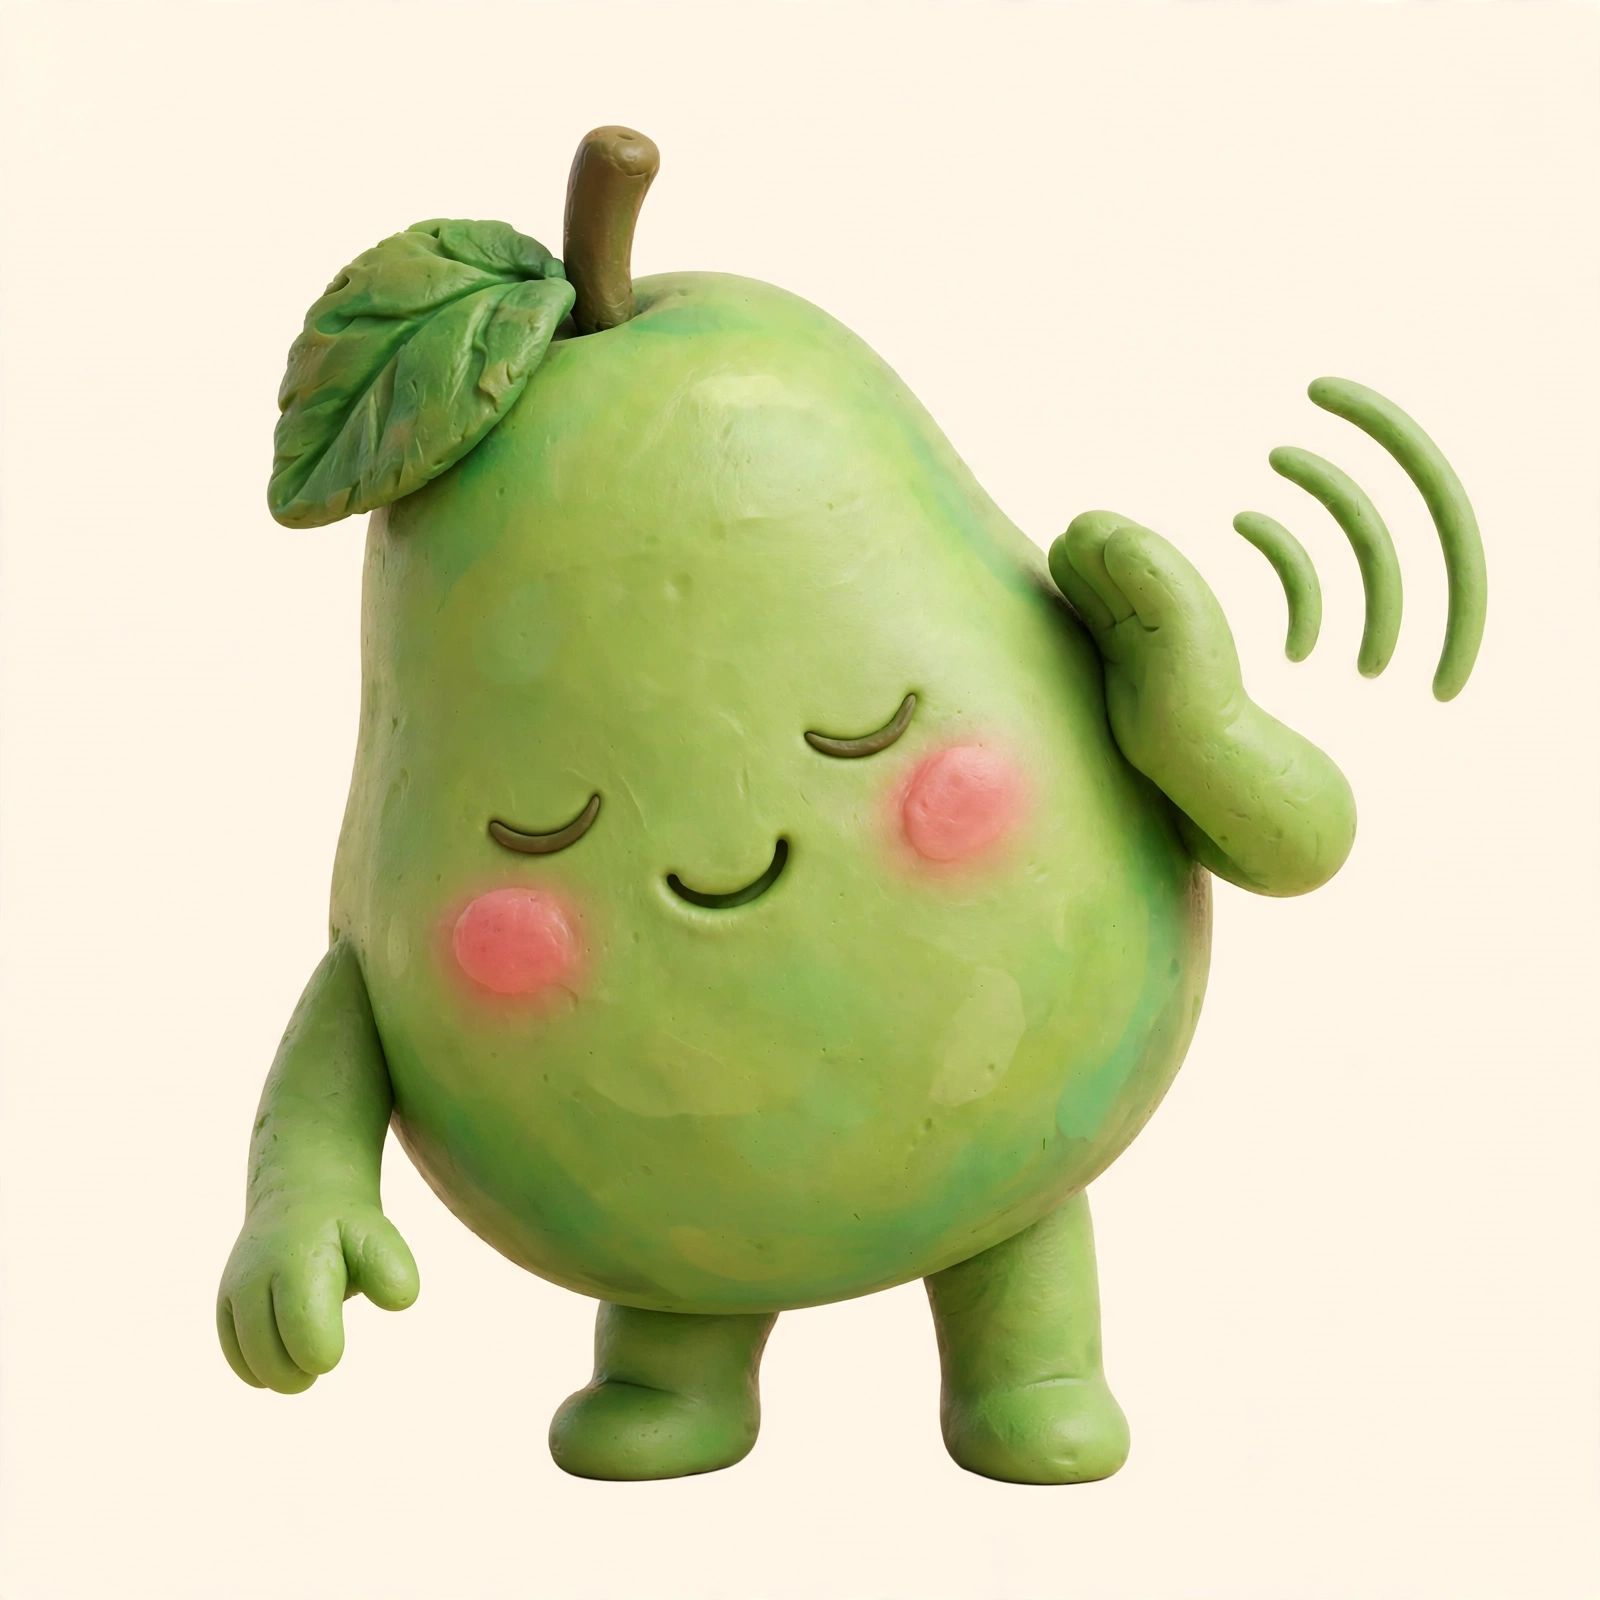
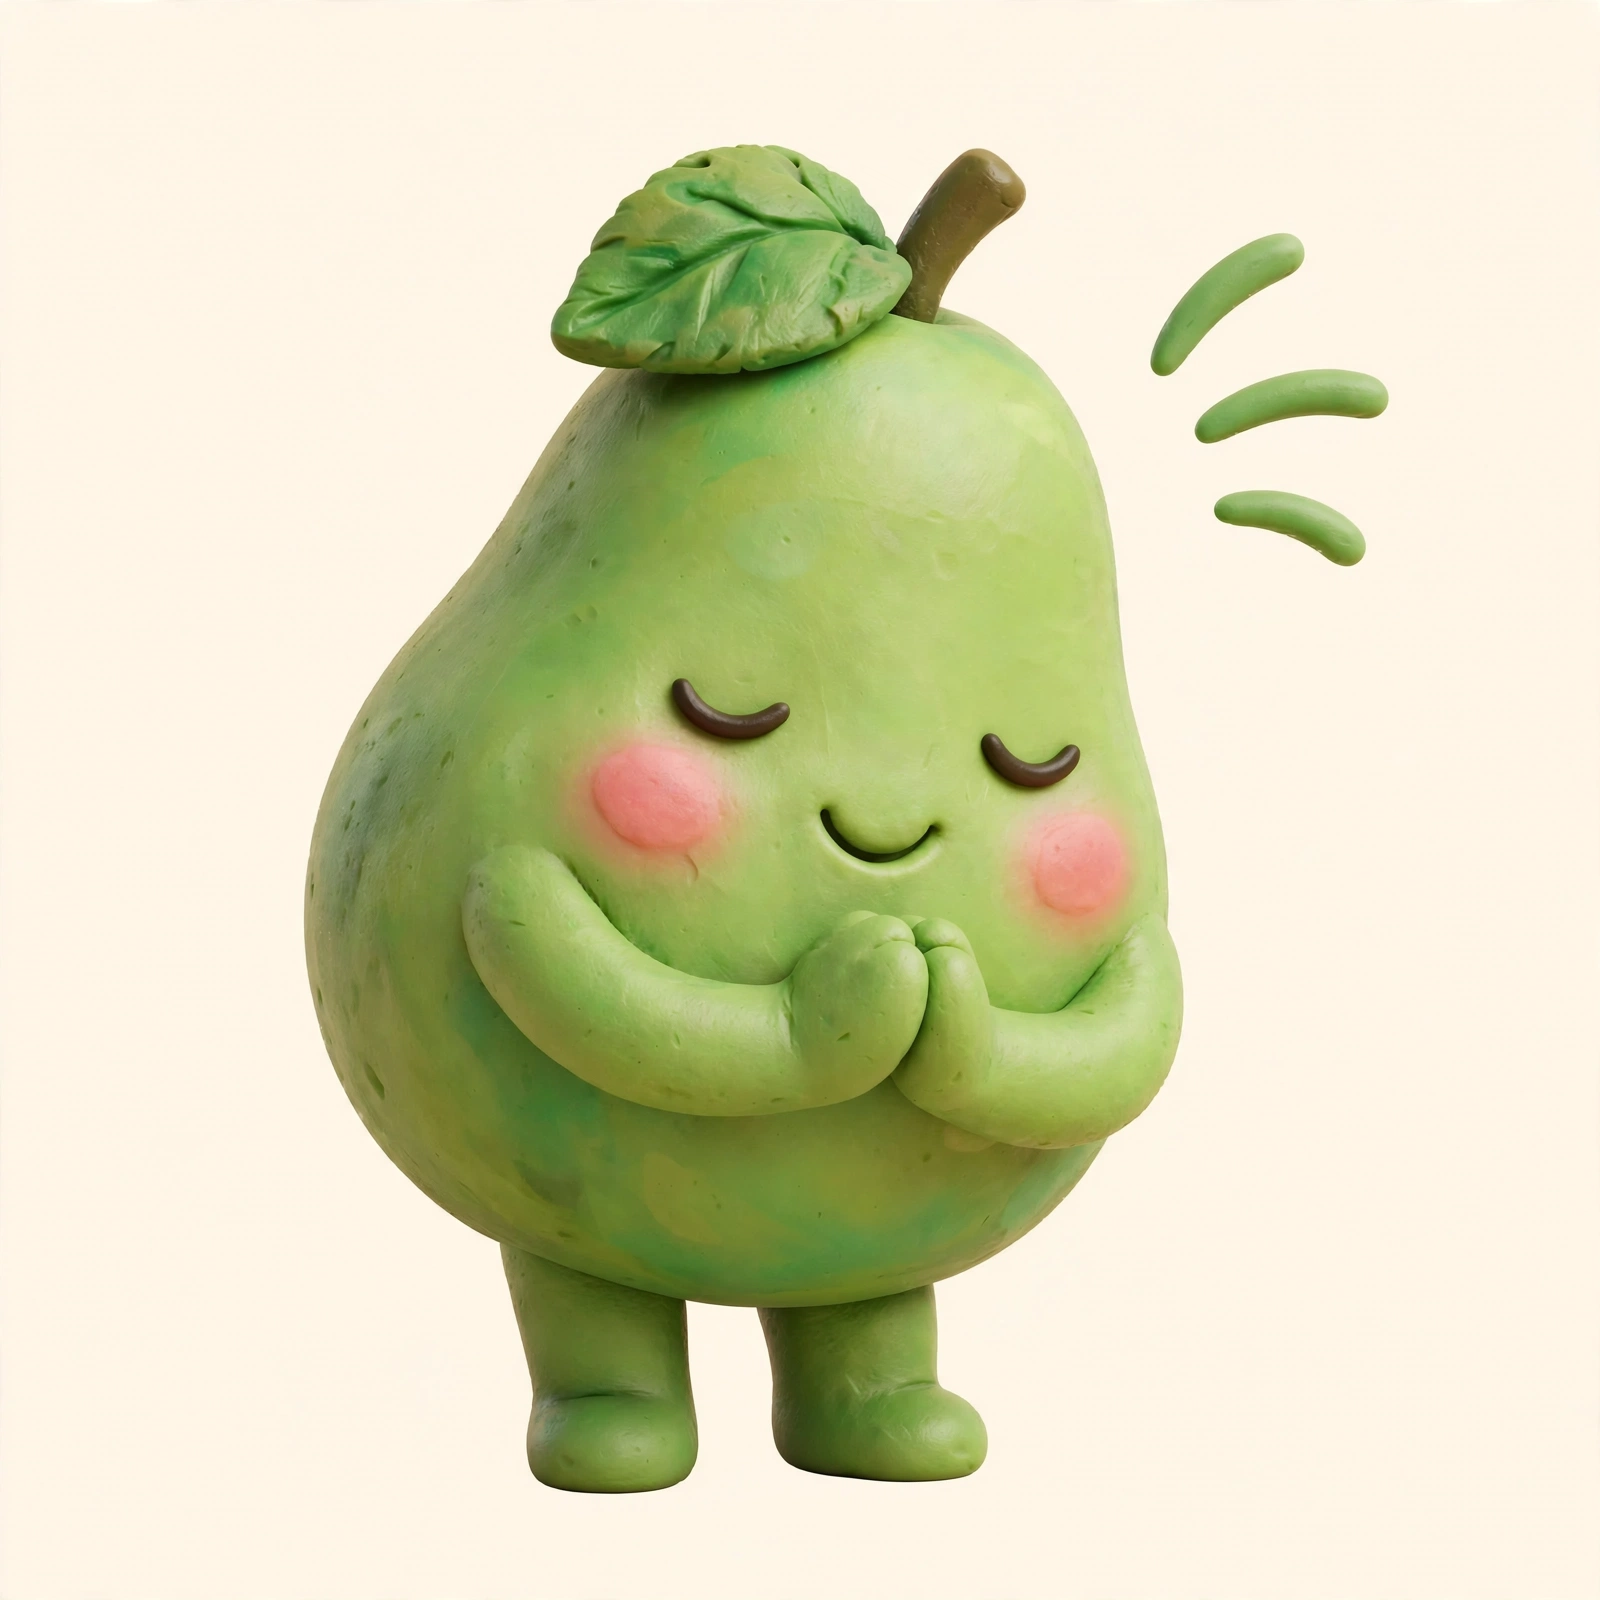
feat(peri): nueva pose de escuchar, con las manos juntas, y sus 12 fotogramas

diff --git a/assets/peri/generate.ts b/assets/peri/generate.ts
@@ -34,7 +34,7 @@ const CHARACTER =
 
 export const STATES: Record<string, string> = {
   calm: "Peri standing relaxed with a warm, gentle smile, big round eyes fully open and bright, welcoming and kind.",
-  listening: "Peri leaning forward attentively, one hand cupped behind where an ear would be, soft green sound waves around. Her eyes stay exactly like in the image: big, round, solid dark brown-black with a small white shine, no white around them.",
+  listening: "Peri listening closely and kindly: she leans slightly forward with her head tilted, both hands clasped together in front of her chest, big round dark eyes wide open and attentive, a soft warm smile, three small soft green sound-wave arcs floating beside her head. Her eyes stay big, round, solid dark brown-black with a small white shine.",
   thinking: "Peri looking through a big magnifying glass with a curious face, three small yellow dots rising above the head.",
   worried: "Peri with a gentle worried frown, head tilted, pointing at a small floating message card with a soft coral border.",
   protective: "Peri holding open a big coral umbrella over a small message card, brave and caring expression, standing in front of it.",
